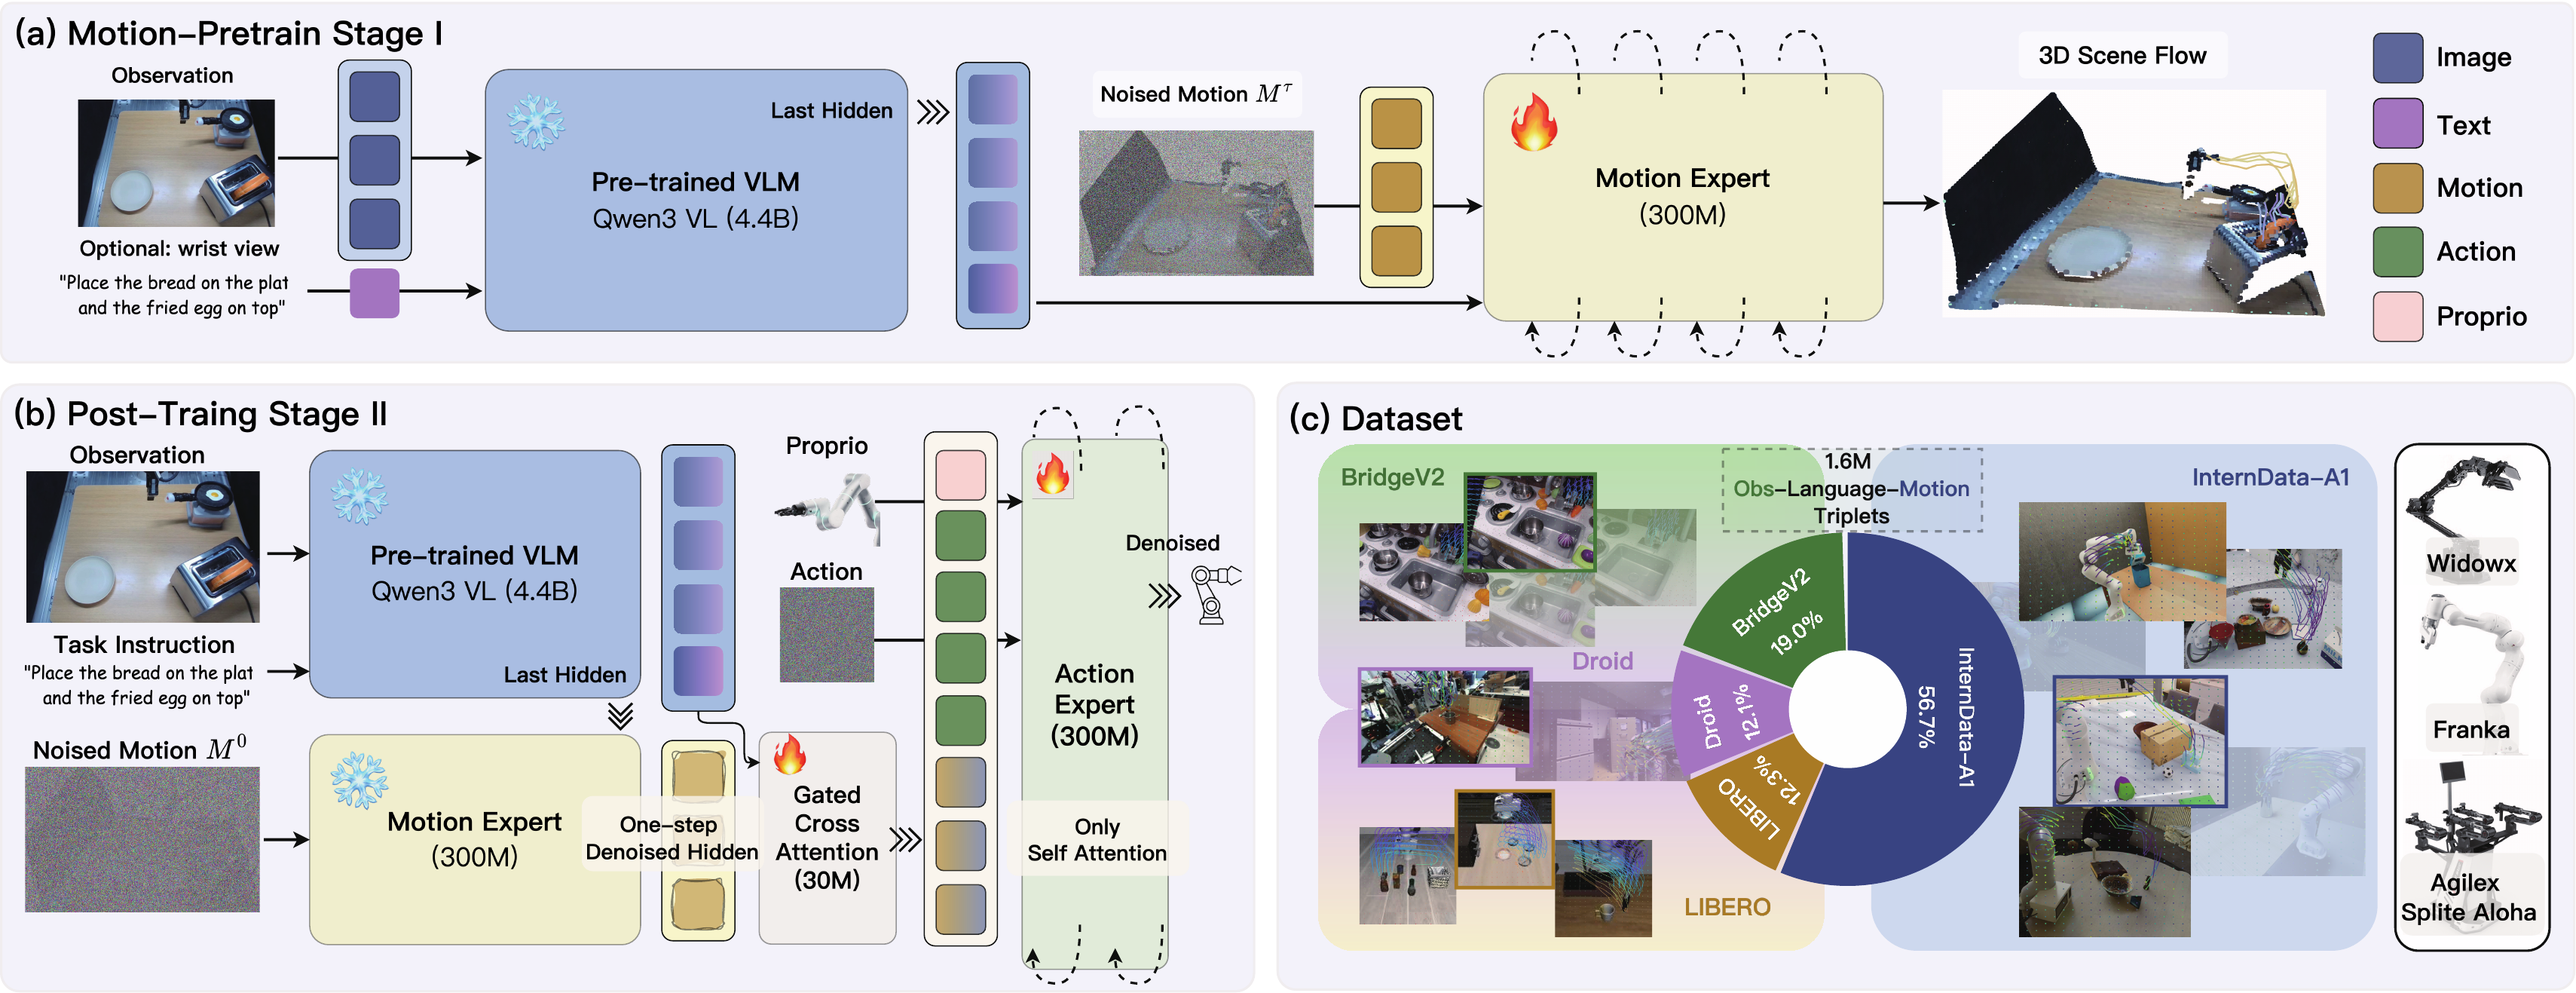
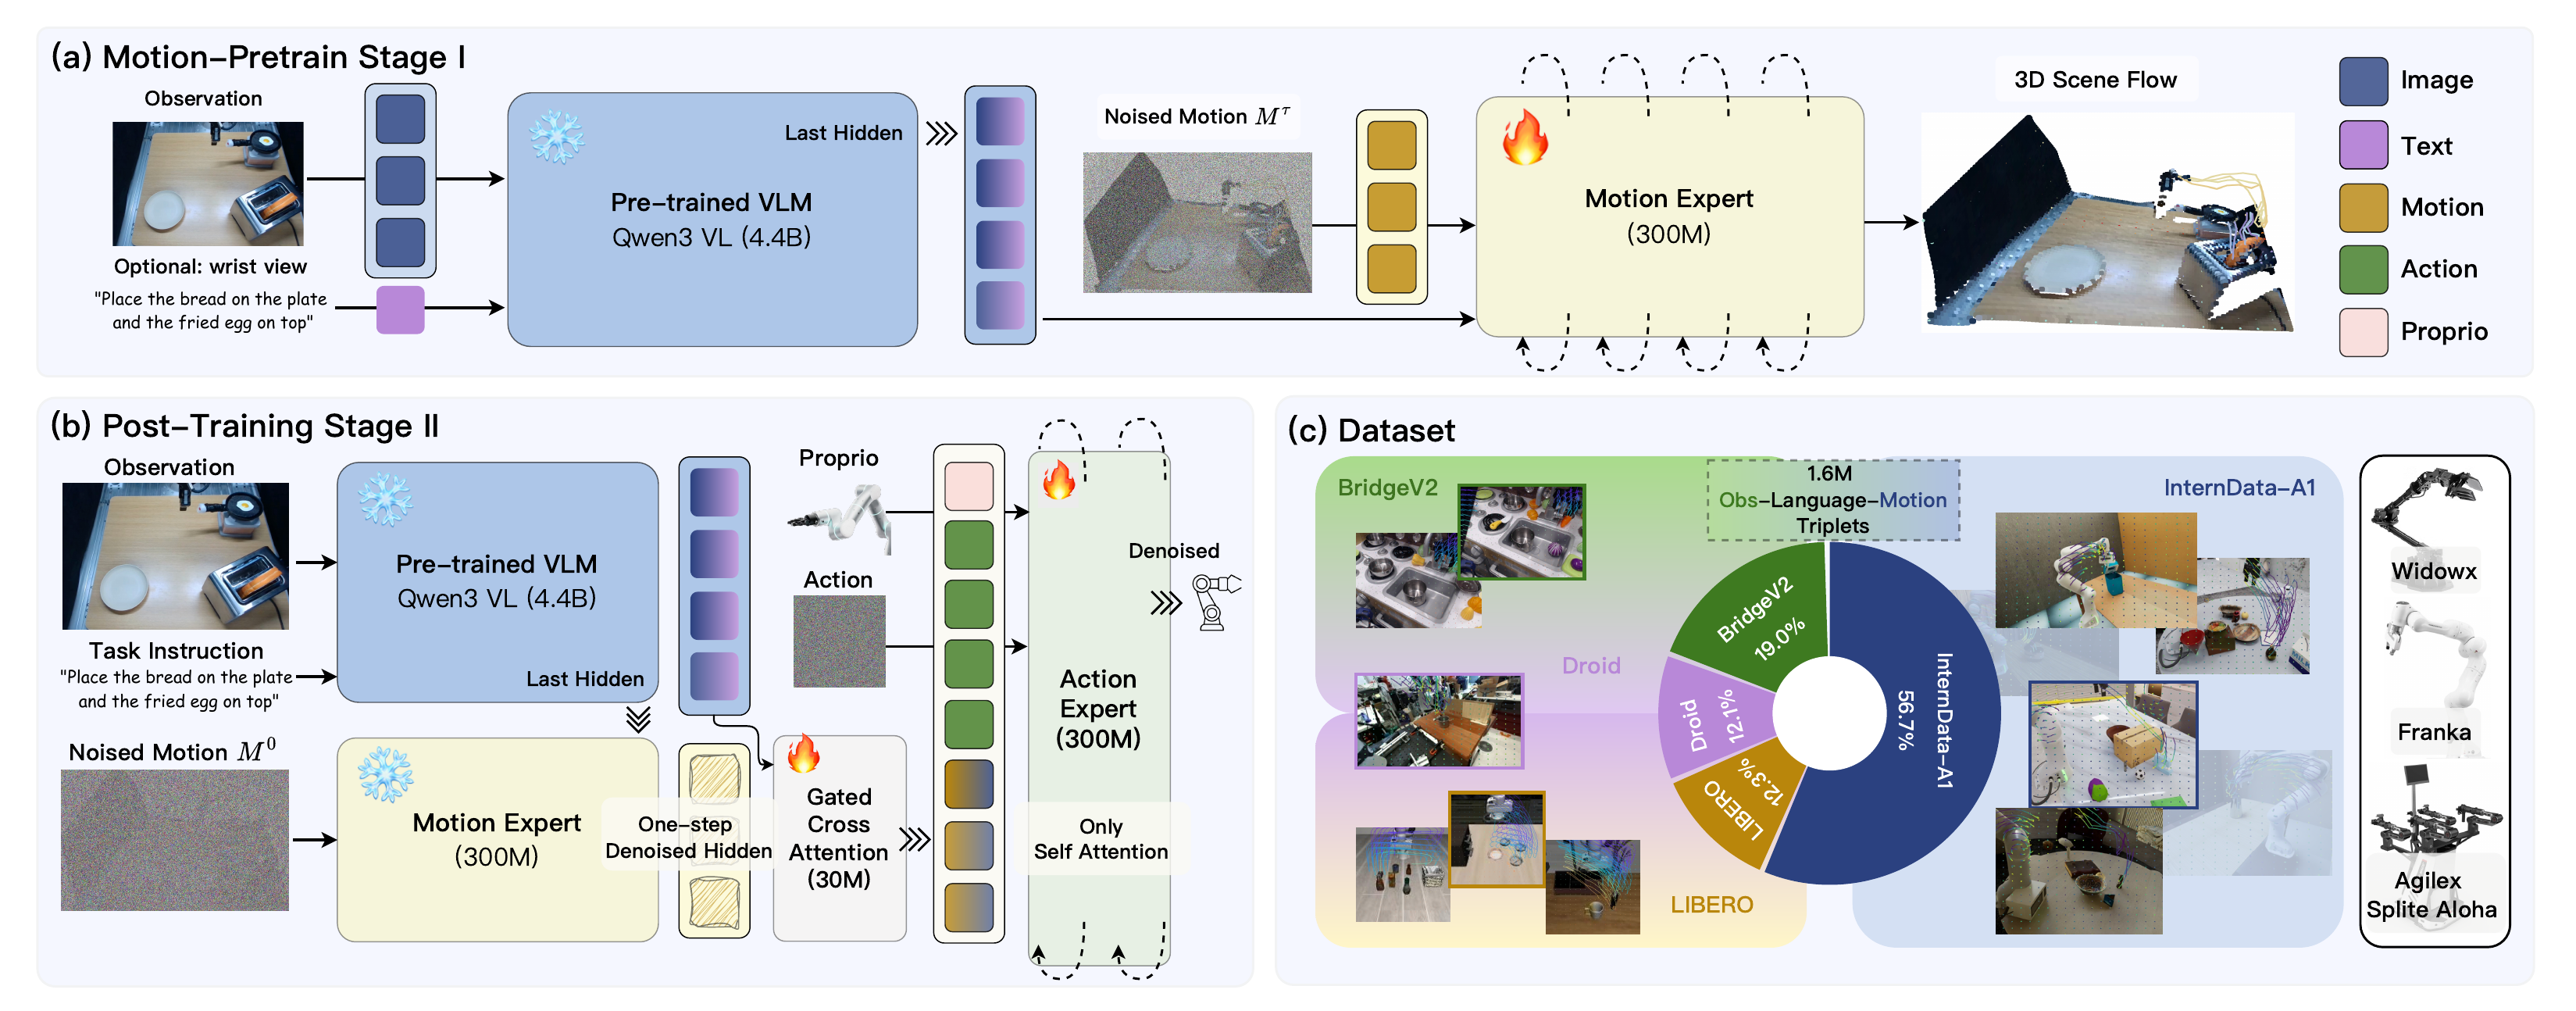
fix: update author affiliations and improve platform image description

diff --git a/index.html b/index.html
@@ -16,29 +16,28 @@
 
             <!-- Authors -->
             <div class="authors">
-                <span class="author">Xinkai Wang<sup>1,5</sup></span>,
-                <span class="author">Chenyi Wang<sup>3,5</sup></span>,
-                <span class="author">Yifu Xu<sup>2,5</sup></span>,
+                <span class="author">Xinkai Wang<sup>1,3</sup></span>,
+                <span class="author">Chenyi Wang<sup>3</sup></span>,
+                <span class="author">Yifu Xu<sup>2,3</sup></span>,
                 <span class="author">Mingzhe Ye<sup>2</sup></span>,
-                <span class="author">Fucheng Zhang<sup>4,5</sup></span>,
+                <span class="author">Fucheng Zhang<sup>3</sup></span>,
                 <br>
-                <span class="author">Jialin Tian<sup>2,5</sup></span>,
-                <span class="author">Xinyu Zhan<sup>2,5</sup></span>,
+                <span class="author">Jialin Tian<sup>2,3</sup></span>,
+                <span class="author">Xinyu Zhan<sup>2,3</sup></span>,
                 <span class="author">Lifeng Zhu<sup>1</sup></span>,
-                <span class="author">Cewu Lu<sup>2,5&dagger;</sup></span>,
-                <span class="author">Lixin Yang<sup>2,5&dagger;</sup></span>
+                <span class="author">Cewu Lu<sup>2,3,4,&dagger;</sup></span>,
+                <span class="author">Lixin Yang<sup>2,3,*,&dagger;</sup></span>
             </div>
 
             <!-- Affiliations -->
             <div class="affiliations">
                 <span class="affiliation"><sup>1</sup>Southeast University</span>
                 <span class="affiliation"><sup>2</sup>Shanghai Jiao Tong University</span>
-                <span class="affiliation"><sup>3</sup>Zhejiang University</span>
                 <br>
-                <span class="affiliation"><sup>4</sup>Beihang University</span>
-                <span class="affiliation"><sup>5</sup>Shanghai Innovation Institute</span>
+                <span class="affiliation"><sup>3</sup>Shanghai Innovation Institute</span>
+                <span class="affiliation"><sup>4</sup>Noematrix</span>
             </div>
-            <p class="author-note"><sup>&dagger;</sup>Co-advising</p>
+            <p class="author-note"><sup>*</sup>Corresponding author&nbsp;&nbsp;&nbsp;<sup>&dagger;</sup>Co-advising</p>
 
             <!-- Resource Links -->
             <div class="links">
@@ -120,7 +119,7 @@
                 <div class="component-card">
                     <h3><i class="fa-solid fa-chart-line"></i> Performance</h3>
                     <p>
-                        LaMP achieves <b>98.3% SOTA</b> on LIBERO benchmark, <b>96.7%</b> on challenging long-horizon tasks, and <b>79.2%</b> on SimplerEnv-WidowX (22.1% higher than second best). On LIBERO-Plus OOD perturbations, it outperforms the strongest baseline by <b>+9.7%</b>.
+                        LaMP achieves <b>98.3% SOTA</b> on LIBERO benchmark, <b>96.7%</b> on challenging long-horizon tasks, and <b>79.2%</b> on SimplerEnv-WidowX (+5.2% over the second-best FlowVLA, +22.1% over π<sub>0.5</sub>). On LIBERO-Plus OOD perturbations, it outperforms the strongest baseline by <b>+9.7%</b>.
                     </p>
                 </div>
             </div>
@@ -187,8 +186,8 @@
                             <td>97.6</td>
                             <td>98.4</td>
                             <td><u>97.9</u></td>
-                            <td><u>94.5</u></td>
-                            <td><u>97.1</u></td>
+                            <td>94.5</td>
+                            <td>97.1</td>
                             <td class="unavailable">–</td>
                             <td class="unavailable">–</td>
                             <td class="unavailable">–</td>
@@ -336,6 +335,36 @@
                             <td>12.5</td>
                             <td>65.0</td>
                             <td>27.7</td>
+                        </tr>
+                        <!-- 3D-Aware VLA -->
+                        <tr class="category-header">
+                            <td colspan="11">3D-Aware VLA</td>
+                        </tr>
+                        <tr>
+                            <td>GeoVLA</td>
+                            <td>98.4</td>
+                            <td><u>99.0</u></td>
+                            <td>96.6</td>
+                            <td><u>96.6</u></td>
+                            <td><u>97.7</u></td>
+                            <td class="unavailable">–</td>
+                            <td class="unavailable">–</td>
+                            <td class="unavailable">–</td>
+                            <td class="unavailable">–</td>
+                            <td class="unavailable">–</td>
+                        </tr>
+                        <tr>
+                            <td>SpatialVLA</td>
+                            <td>88.2</td>
+                            <td>89.9</td>
+                            <td>78.6</td>
+                            <td>55.5</td>
+                            <td>78.1</td>
+                            <td>29.2</td>
+                            <td>25.0</td>
+                            <td>16.7</td>
+                            <td><b>100.0</b></td>
+                            <td>42.7</td>
                         </tr>
                         <!-- Separator -->
                         <tr class="separator-row">
@@ -519,9 +548,9 @@
 
             <!-- Platform Image -->
             <div class="platform-figure">
-                <img src="images/platform.png" alt="Real-World Experimental Platform" class="platform-img">
+                <img src="images/platform.png" alt="Real-World Experiment Platform and Task Overview" class="platform-img">
                 <p class="caption">
-                    <b>Real-world experimental platform.</b> We use a Flexiv Rizon 4 robot arm with a Robotiq 2F-85 gripper and an Intel RealSense D415 camera for real-world evaluation.
+                    <b>Real-world experiment platform and task overview.</b> <b>(a)</b> In-domain tasks: Pick-and-Place, Deformable manipulation, and Long-horizon tasks. <b>(b)</b> Hardware setup (Flexiv Rizon 4 arm with Robotiq 2F-85 gripper and Intel RealSense D415 camera) and OOD test conditions (unseen layout, object, and background). <b>(c)</b> Motion foresight visualizations—predicted 3D trajectories overlaid on the current observation, with color from blue to red indicating temporal progression.
                 </p>
             </div>
 
@@ -651,7 +680,7 @@
                 <div class="achievement-card">
                     <div class="achievement-number">79.2%</div>
                     <div class="achievement-label">SimplerEnv-WidowX</div>
-                    <div class="achievement-note">+22.1% vs Second Best</div>
+                    <div class="achievement-note">+5.2% vs Second Best (FlowVLA)</div>
                 </div>
                 <div class="achievement-card">
                     <div class="achievement-number">62.5%</div>